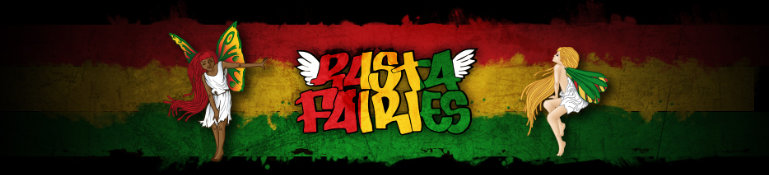
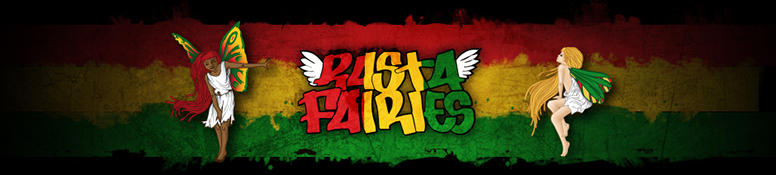
1.0 - Tested theme on OS X, iOS, Android and Windows browsers.  Ready for Deployment.

diff --git a/resources/assets/styles/layouts/_header.scss b/resources/assets/styles/layouts/_header.scss
@@ -30,7 +30,7 @@
 .brand {
   display: block;
   width: 100%;
-  height: calculate-rem(118px);
+  height: calculate-rem(130px);
   background: url("../images/banner-sm.jpg") no-repeat center;
 
   @include media-breakpoint-up(md) {
@@ -39,7 +39,7 @@
   }
 
   @include media-breakpoint-up(lg) {
-    height: calculate-rem(213px);
+    height: calculate-rem(212px);
     background: url("../images/banner.jpg") no-repeat center;
   }
 
@@ -113,8 +113,13 @@
   }
 
   .woocommerce-form__input-checkbox {
+    width: 13px;
+    height: 13px;
+    padding: 0;
+    margin: 0;
+    vertical-align: bottom;
     position: relative;
-    top: calculate-rem(-2px);
+    top: -1px;
   }
 }
 
@@ -159,25 +164,4 @@
   border-radius: 0;
   border: 1px solid $black !important;
   box-shadow: 3px 3px 10px rgba(0, 0, 0, 0.9);
-}
-
-/** Widget area (search) **/
-.header-widgets {
-  order: 2;
-  padding: 1rem;
-
-  @include media-breakpoint-down(md) {
-    @include stripes-bottom;
-
-    margin-bottom: 1rem;
-  }
-
-  @include media-breakpoint-up(lg) {
-    width: 100%;
-    max-width: 960px;
-    margin: 0 auto;
-    padding-left: 0;
-    padding-right: 0;
-    padding-bottom: 0;
-  }
 }

diff --git a/resources/assets/styles/layouts/_sidebar.scss b/resources/assets/styles/layouts/_sidebar.scss
@@ -17,10 +17,6 @@
   }
 }
 
-#wp-calendar {
-  margin: 0 auto;
-}
-
 .sidebar {
   order: 1;
 
@@ -128,7 +124,7 @@
         li {
           position: relative;
           padding: calculate-rem(5px);
-          white-space: nowrap;
+          // white-space: nowrap;
 
           a {
             display: block;
@@ -136,7 +132,7 @@
             border-radius: calculate-rem(8px);
           }
 
-          &.cat-parent > a::after {
+          &.cat-parent > a::before {
             content: url("../images/right_arrow.svg");
             display: inline-block;
             float: right;
@@ -162,6 +158,26 @@
 .widget_product_departments .widget-content {
   padding-left: 0;
   padding-right: 0;
+}
+
+.header-widgets {
+  order: 2;
+  padding: 1rem;
+
+  @include media-breakpoint-down(md) {
+    @include stripes-bottom;
+
+    margin-bottom: 1rem;
+  }
+
+  @include media-breakpoint-up(lg) {
+    width: 100%;
+    max-width: 960px;
+    margin: 0 auto;
+    padding-left: 0;
+    padding-right: 0;
+    padding-bottom: 0;
+  }
 }
 
 .content-widgets {

diff --git a/resources/assets/scripts/routes/common.js b/resources/assets/scripts/routes/common.js
@@ -41,6 +41,13 @@ export default {
       $('.dropdown-toggle').dropdown({ display: 'static'});
     }
 
+    // Mitigate IE/Edge bug showing bullets on lists which are hidden when loading the page
+    if (document.documentMode || /Edge/.test(navigator.userAgent)) {
+      $('ul:hidden').each(function(){
+        $(this).parent().append($(this).detach());
+      });
+    }
+
   },
   finalize() {
     // JavaScript to be fired on all pages, after page specific JS is fired

diff --git a/resources/assets/styles/layouts/_pages.scss b/resources/assets/styles/layouts/_pages.scss
@@ -15,10 +15,19 @@
 }
 
 @include media-breakpoint-up(lg) {
-  .main:not(.template-contact .main, .woocommerce-page .main, .template-departments .main) {
+  .main {
     margin: 2rem 0;
     padding: 1rem;
     background-color: $white;
     border: 1px solid $gray;
+  }
+
+  .template-contact .main,
+  .woocommerce-page .main,
+  .template-departments .main {
+    margin: 0;
+    padding: 0;
+    border: 0;
+    background-color: transparent;
   }
 }

diff --git a/resources/assets/scripts/main.js b/resources/assets/scripts/main.js
@@ -7,17 +7,11 @@ import "./autoload/**/*"
 // import local dependencies
 import Router from './util/Router';
 import common from './routes/common';
-import home from './routes/home';
-import aboutUs from './routes/about';
 
 /** Populate Router instance with DOM routes */
 const routes = new Router({
   // All pages
   common,
-  // Home page
-  home,
-  // About Us page, note the change from about-us to aboutUs.
-  aboutUs,
 });
 
 // Load Events

diff --git a/resources/assets/styles/components/_forms.scss b/resources/assets/styles/components/_forms.scss
@@ -16,6 +16,16 @@ input {
   background-color: $green;
 }
 
+//prevent iphone zoom on select focus
+@media screen and (-webkit-min-device-pixel-ratio: 0) and (max-device-width: 1024px) {
+  select,
+  select:focus,
+  textarea:focus,
+  input:focus {
+    font-size: 16px;
+  }
+}
+
 /** Login Form **/
 .login-form {
   color: $white;

diff --git a/resources/assets/styles/layouts/_wc-categories.scss b/resources/assets/styles/layouts/_wc-categories.scss
@@ -57,7 +57,7 @@
         overflow: hidden;
         border-radius: 0;
         white-space: nowrap;
-        text-indent: -9999px;
+        font-size: 0;
 
         svg {
           display: block;

diff --git a/resources/assets/styles/components/_buttons.scss b/resources/assets/styles/components/_buttons.scss
@@ -24,6 +24,10 @@ input[type="submit"],
     background-color: $black;
     color: $gray;
   }
+
+  &:focus {
+    @include stripes-bottom;
+  }
 }
 
 .woocommerce a.button.alt,

diff --git a/resources/assets/styles/components/_wc-classes.scss b/resources/assets/styles/components/_wc-classes.scss
@@ -26,6 +26,10 @@
   }
 }
 
+.woocommerce-account #customer_login h2 {
+  margin-top: 2rem;
+}
+
 .woocommerce-MyAccount-navigation li {
   padding: 0.5rem;
 }

diff --git a/resources/assets/styles/layouts/_tinymce.scss b/resources/assets/styles/layouts/_tinymce.scss
@@ -6,4 +6,5 @@ body#tinymce {
   margin: 12px !important;
   font-family: Arial, sans-serif;
   color: #2e2e2e;
+  background-color: $white;
 }

diff --git a/resources/assets/styles/components/_wp-classes.scss b/resources/assets/styles/components/_wp-classes.scss
@@ -54,3 +54,8 @@
   @extend .sr-only;
   @extend .sr-only-focusable;
 }
+
+/** Widgets **/
+#wp-calendar {
+  margin: 0 auto;
+}

diff --git a/app/admin.php b/app/admin.php
@@ -29,4 +29,29 @@ add_action( 'login_enqueue_scripts', function() {
   wp_enqueue_style( 'sage/login', asset_path('styles/login.css'), false, null);
 });
 
+/**
+ * Remove unwanted admin menu items
+ * @since 1.0
+ */
+ add_action( 'admin_menu', function() {
+  //remove_menu_page( 'index.php' );                  //Dashboard
+  remove_menu_page( 'edit.php' );                   //Posts
+  //remove_menu_page( 'upload.php' );                 //Media
+  //remove_menu_page( 'edit.php?post_type=page' );    //Pages
+  remove_menu_page( 'edit-comments.php' );          //Comments
+  //remove_menu_page( 'themes.php' );                 //Appearance
+  //remove_menu_page( 'plugins.php' );                //Plugins
+  //remove_menu_page( 'users.php' );                  //Users
+  // remove_menu_page( 'tools.php' );                  //Tools
+  //remove_menu_page( 'options-general.php' );        //Settings
+  global $submenu;
+  // Appearance Menu
+  unset($submenu['themes.php'][6]); // Customize
+});
+
+
+add_action('admin_init', function () {
+  remove_submenu_page('themes.php', 'theme-editor.php');
+  remove_submenu_page('plugins.php', 'plugin-editor.php' );
+});
 ?>
